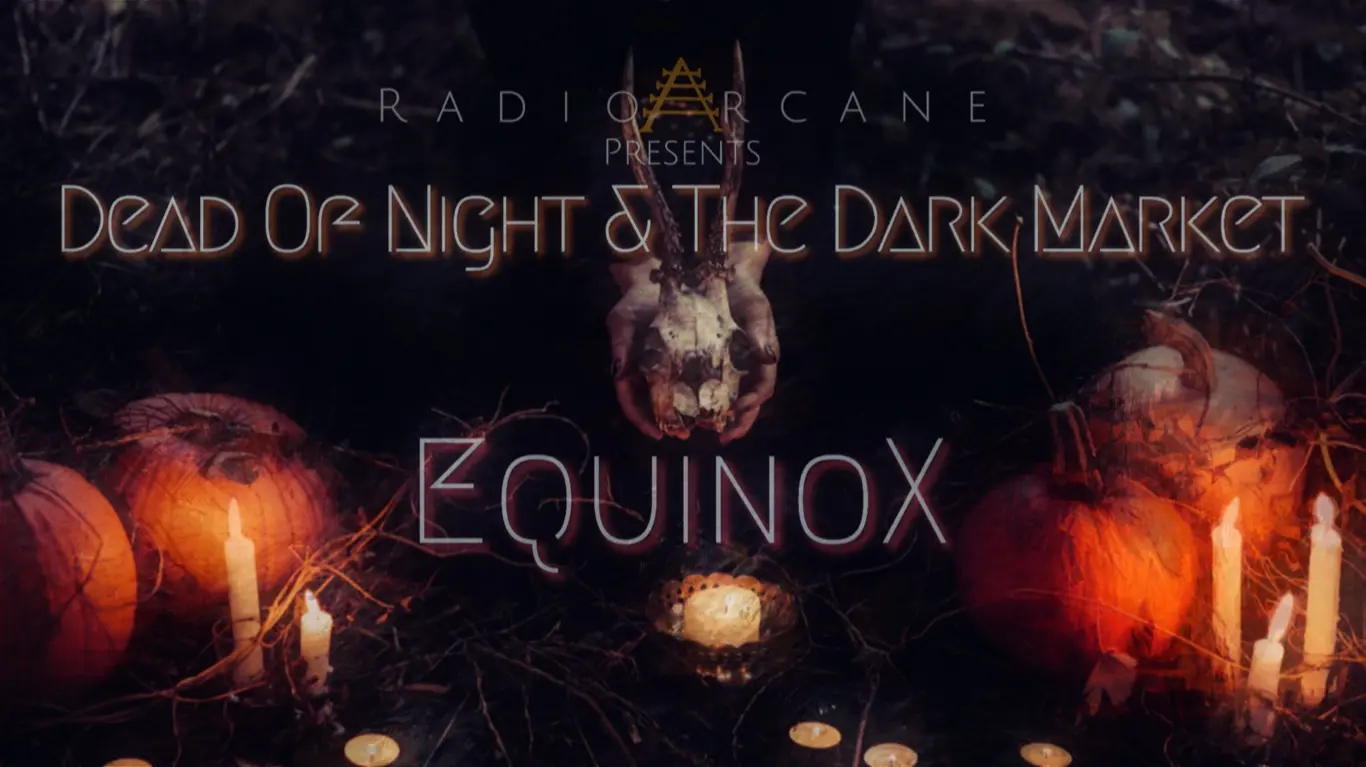
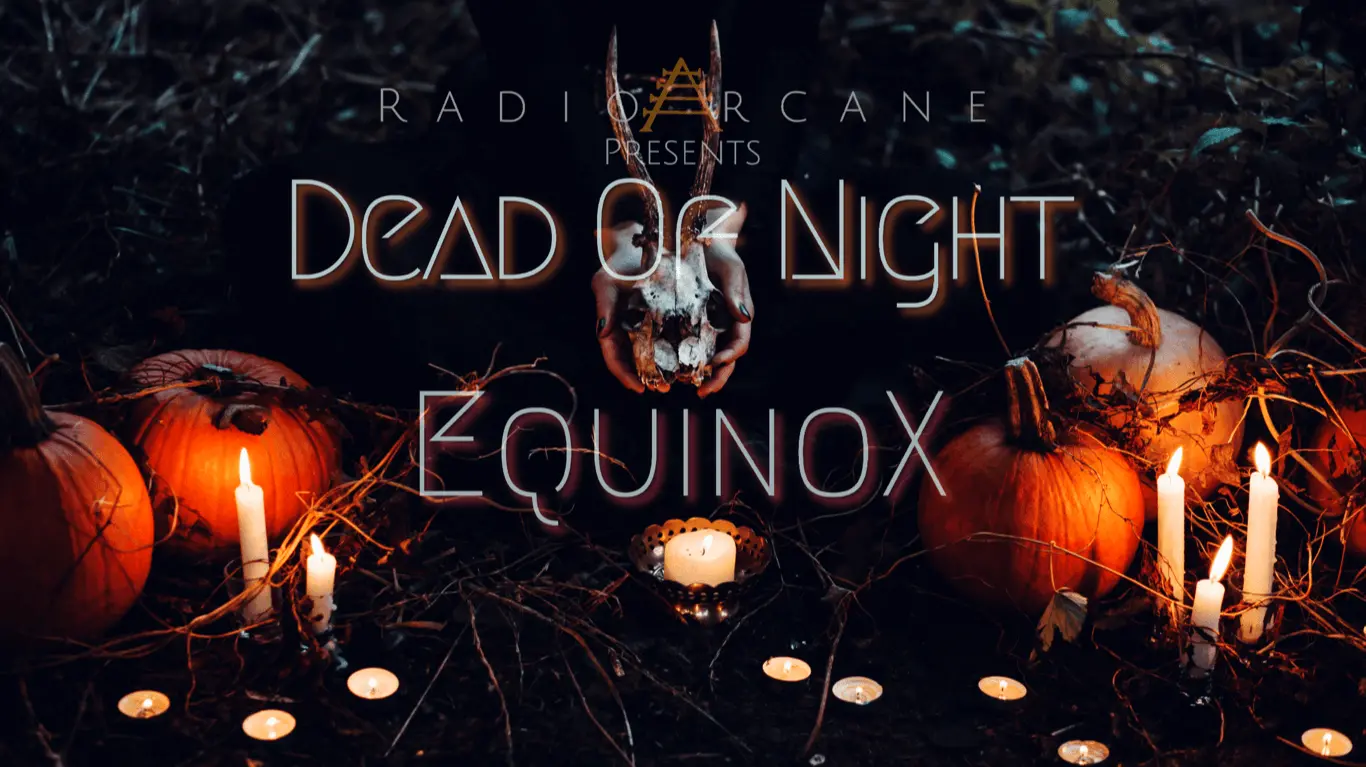
event update

diff --git a/_posts/events/dead-of-night-2021-09-25.md b/_posts/events/dead-of-night-2021-09-25.md
@@ -6,13 +6,17 @@ eventType: radio-arcane
 date: '2021-09-25'
 startDatetime: '2021-09-25 21:00:00'
 endDatetime: '2021-09-26 03:00:00'
-image: '/img/uploads/dead-of-night-equinox.jpg'
+image: '/img/uploads/dead-of-night-equinox.png'
 description: >-
-   A celebration of the Autumnal Equinox at Dead Of Night & The Dark Market.
-
-   More details forthcoming. Stay tuned!
+   A celebration of the Autumnal Equinox at Dead Of Night.
 
 
+
+   This event will also be streamed LIVE on our Twitch channel https://www.twitch.tv/radio_arcane_tv
+
+
+
+   MASKS REQUIRED FOR ALL
 
    18+ entry
 
